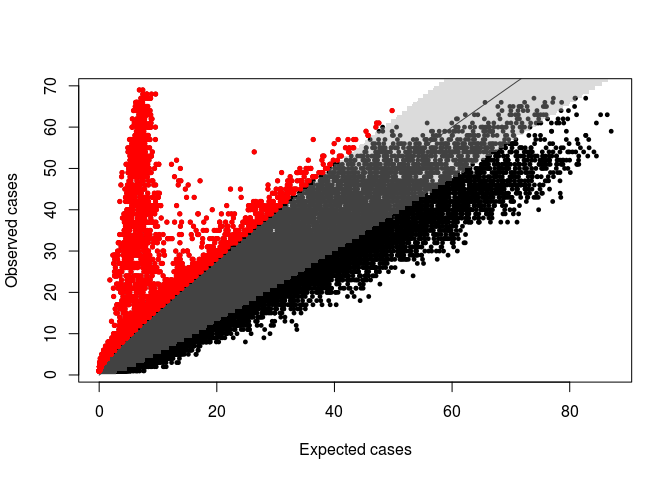
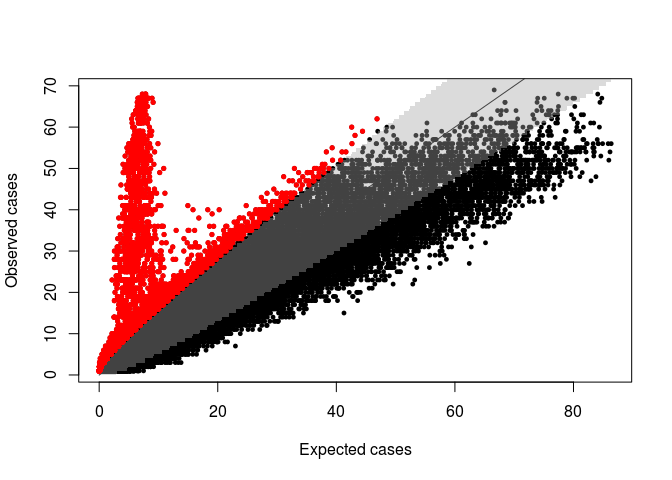
demonstration in readme (default value)

diff --git a/README.md b/README.md
@@ -1,10 +1,10 @@
 # Rancovr: Cluster detection in R with Random Neighbourhood Covering
 
-`rancovr` is a statistical software package written in R for the
-detection of disease clusters. It implements the Random Neighbourhood
+`rancovr` is a statistical software package written in R for disease
+cluster and anomaly detection. It implements the Random Neighbourhood
 Covering (RaNCover) approach of reference \[1\]. RaNCover assigns a
 score *w* ∈ \[0, 1\] to each records. A high score suggests that the
-record is likely to be part of a cluster (e.g., and infection case
+record is likely to be part of a cluster (e.g., it is an infection case
 caused by a local outbreak), while a low score suggests that the record
 is consistent with a baseline of sporadic cases.
 
@@ -13,11 +13,12 @@ install.packages("devtools")
 devtools::install_github("mcavallaro/rancovr")
 ```
 
-As a demonstration, we consider the spatio-temporal coordinates stored
-in `Data/synthetic_dataset.csv`. These represent records of infection
-cases, obtained aggregating data simulated from an endemic component
-(`end.`) and from an outbreak (`epi.`) in England. See also reference
-\[1\] for simulation details.
+As a demonstration, we consider the spatio-temporal coordinates in
+`Data/synthetic_dataset.csv`. The entries of this data set represent
+(simulated) locations and detection dates of infected patients generated
+by an endemic disease (`end.`) and cases due to a local outbreak
+(`epi.`) in England. See also reference \[1\] for the simulation
+details.
 
 ``` r
 data("simulation_data")
@@ -60,11 +61,11 @@ CreateObservationMatrices(simulation_data)
     ## The variable `observation.matrix` has been saved on disk in file `/home/massimo/Documents/rancovr/observation_matrix.RData`.
     ## Load on memory with `load("/home/massimo/Documents/rancovr/observation_matrix.RData", verbose=1)`.
 
-Observations must be compared with an appropriate baseline model. If
-their number significantly exceeded the model prediction, an outbreak
-might be occurring. Estimating the baseline involves finding a temporal
-trend (using the function `TimeFactor`) and a spatial trend based on the
-spatial population distribution.
+Observations must be compared with an appropriate baseline model. If the
+numbers of these observations significantly exceeded the model
+prediction, an outbreak might be occurring. Estimating the baseline
+involves finding a temporal trend (using the function `TimeFactor`) and
+a spatial trend based on the spatial population distribution.
 
 ``` r
 load(file.path(getwd(), "observation_matrix.RData"), verbose=1)
@@ -129,30 +130,22 @@ cylinders = CreateCylinders(observation.matrix, baseline.matrix, week.range = c(
     ## Loading objects:
     ##   postcode2coord
     ## Using data loaded from `postcode2coord.RData`
-    ## Evaluating cylinder exceedances from  01/01/15  to  24/11/16 .
-    ## Time difference of 1.62046 mins
+    ## Time difference of 1.860501 mins
 
 ``` r
 head(cylinders)
 ```
 
-    ##             x        y       rho t.low t.upp n_obs         mu      p.val
-    ## 1   -9.512553 5720.063 14.311616    21    26    40 34.5261054 0.19624700
-    ## 2  -13.733509 5807.403  7.155808     0    12     1  0.7111017 0.50889716
-    ## 3 -134.616336 5623.578  6.746561    52    71     4  1.5466504 0.07163341
-    ## 4  -63.364792 5837.851  5.968356    48    72    26 29.5764845 0.76923125
-    ## 5  -91.143168 5730.355  6.246101     3    25     7  6.0378388 0.39977477
-    ## 6  -44.871282 6112.868  6.102494    14    37    18 11.6333849 0.04996999
-    ##   warning
-    ## 1   FALSE
-    ## 2   FALSE
-    ## 3   FALSE
-    ## 4   FALSE
-    ## 5   FALSE
-    ## 6    TRUE
+    ##            x        y      rho t.low t.upp n_obs         mu     p.val warning
+    ## 1  -4.029426 5725.620 7.358866    52    68    48 68.1715332 0.9957064   FALSE
+    ## 2   3.555001 5730.511 8.163928    69    82    30 37.8589987 0.9170454   FALSE
+    ## 3 -93.948032 5728.697 8.875126    86    97     6  4.4450999 0.2877209   FALSE
+    ## 4 -81.656709 5934.709 7.358866    16    32     7  6.7911243 0.5187256   FALSE
+    ## 5 -83.854503 6023.165 6.938005     5    23     2  0.7122419 0.1600714   FALSE
+    ## 6 -75.820322 5833.160 8.163928    40    53     1  3.3078229 0.9634042   FALSE
 
-Some cylinders contain much more cases than the baseline expectation.
-Such cylinders cover epidemic event.
+Some cylinders contain much more cases than the baseline predicts. These
+cylinders cover epidemic (outbreak) events.
 
 ``` r
 plotCylindersCI(cylinders, confidence.level = 0.95)
@@ -225,27 +218,19 @@ cylinders.2 = CreateCylinders(observation.matrix, baseline_for_sim, week.range =
     ## Data loaded from `postcode2coord.RData` is for a different matrix and will be overwritten by the map for the current matrix.
     ## The variable `postcode2coord` has been saved on disk in file `/home/massimo/Documents/rancovr/postcode2coord.RData`.
     ## Load on memory with `load("/home/massimo/Documents/rancovr/postcode2coord.RData", verbose=1)`.
-    ## Evaluating cylinder exceedances from  01/01/15  to  24/11/16 .
-    ## Time difference of 2.642384 mins
+    ## Time difference of 3.149846 mins
 
 ``` r
 head(cylinders.2)
 ```
 
-    ##              x        y       rho t.low t.upp n_obs        mu       p.val
-    ## 1    5.6383687 5724.717  7.987403    27    41    26 14.068329 0.002776905
-    ## 2   -6.9825321 5893.372  9.107041     4    15     4  1.506170 0.066419281
-    ## 3  -88.4081075 5932.797  6.984781     0    13     9  7.381465 0.321824199
-    ## 4   -1.2414016 5733.114 11.757139    42    49    30 33.839933 0.768372193
-    ## 5   -0.5376942 5745.217  7.199748    57    74    18 13.633585 0.147727675
-    ## 6 -102.2708911 5726.610  9.107041    80    91     1  1.265458 0.717890066
-    ##   warning
-    ## 1    TRUE
-    ## 2   FALSE
-    ## 3   FALSE
-    ## 4   FALSE
-    ## 5   FALSE
-    ## 6   FALSE
+    ##            x        y      rho t.low t.upp n_obs        mu      p.val warning
+    ## 1  -4.565732 5782.775 14.56173    66    78     7  5.230448 0.27222953   FALSE
+    ## 2 -39.431829 6112.945 13.99046    12    25    27 17.817712 0.02536801    TRUE
+    ## 3 -89.611223 5979.242 16.81444    56    65    12  9.115878 0.20837666   FALSE
+    ## 4 -67.432738 5837.926 16.81444    17    26    19 23.455035 0.84773404   FALSE
+    ## 5  -2.764860 5740.000 12.61083    10    26    69 79.836310 0.89999698   FALSE
+    ## 6 -45.162555 5864.023 11.57249    17    36    13  8.069146 0.06718268   FALSE
 
 ``` r
 plotCylindersCI(cylinders.2, confidence.level = 0.95)
@@ -269,12 +254,12 @@ head(simulation_data)
     ## 5  AL100DR   47         64 epi.    1 51.76370 -0.2360576  AL100DR    64
     ## 6  AL100DR   51         64 epi.    1 51.76370 -0.2360576  AL100DR    64
     ##          y         x warning.score warning.score.2
-    ## 1 5756.180 -8.074648     0.8692308       0.9529412
-    ## 2 5756.180 -8.074648     0.8918269       0.9187935
-    ## 3 5756.180 -8.074648     0.9714994       0.9910941
-    ## 4 5756.123 -8.254003     0.9759036       0.9987294
-    ## 5 5756.123 -8.254003     0.9849315       0.9879357
-    ## 6 5756.123 -8.254003     0.9742015       0.9911055
+    ## 1 5756.180 -8.074648     0.8916479       0.8492063
+    ## 2 5756.180 -8.074648     0.8717340       0.7913043
+    ## 3 5756.180 -8.074648     0.9716216       0.9369658
+    ## 4 5756.123 -8.254003     0.9852744       0.9680511
+    ## 5 5756.123 -8.254003     0.9869754       0.9783105
+    ## 6 5756.123 -8.254003     0.9744624       0.9368984
 
 Assess concordance with ROC-AUC:
 
@@ -318,7 +303,7 @@ plot(ROC, add=T, col='red')
 print(ROC$auc)
 ```
 
-    ## Area under the curve: 0.9997
+    ## Area under the curve: 0.9993
 
 ``` r
 legend('bottomright', legend =  c('Using estimated baseline', 'Using true baseline'), lty=1, col=c('black','red'))
@@ -334,18 +319,19 @@ simulation_data$sqerr = (simulation_data$Y - simulation_data$warning.score)^2
 cat("MSE using estimated baseline:", mean(simulation_data$sqerr), '\n') 
 ```
 
-    ## MSE using estimated baseline: 0.02557394
+    ## MSE using estimated baseline: 0.02540727
 
 ``` r
 simulation_data$sqerr.2 = (simulation_data$Y - simulation_data$warning.score.2)^2
 cat("MSE using true baseline:", mean(simulation_data$sqerr.2), '\n') 
 ```
 
-    ## MSE using true baseline: 0.03922385
+    ## MSE using true baseline: 0.03199637
 
 And with a map:
 
 ``` r
+data("GB_region_boundaries")
 #plotBaseMap(add=F, xlim=c(-0.6,0.6), ylim=c(51.648,51.65))
 plotBaseMap(add=F, xlim=c(-1,1), ylim=c(50.648,52.65))
 points(simulation_data$longitude, simulation_data$latitude,
@@ -386,7 +372,7 @@ legend('topright',c('end.','true epi.', 'w>0.95'), pch=c(20,4,1), col=c(tab.blue
 ![](README_files/figure-markdown_github/unnamed-chunk-16-1.png)
 
 \[1\] M. Cavallaro, J. Coelho, D. Ready, V. Decraene, T. Lamagni, N. D.
-McCarthy, D. Todkill, M. J. Keeling, Cluster detection with random
-neighbourhood covering: application to invasive Group A Streptococcal
-disease, 2021 medRxiv 2021.10.20.21264984; doi:
-<https://doi.org/10.1101/2021.10.20.21264984>
+McCarthy, D. Todkill, M. J. Keeling (2022) Cluster detection with random
+neighbourhood covering: Application to invasive Group A Streptococcal
+disease. PLoS Comput Biol 18(11): e1010726.
+<https://doi.org/10.1371/journal.pbci.1010726>
